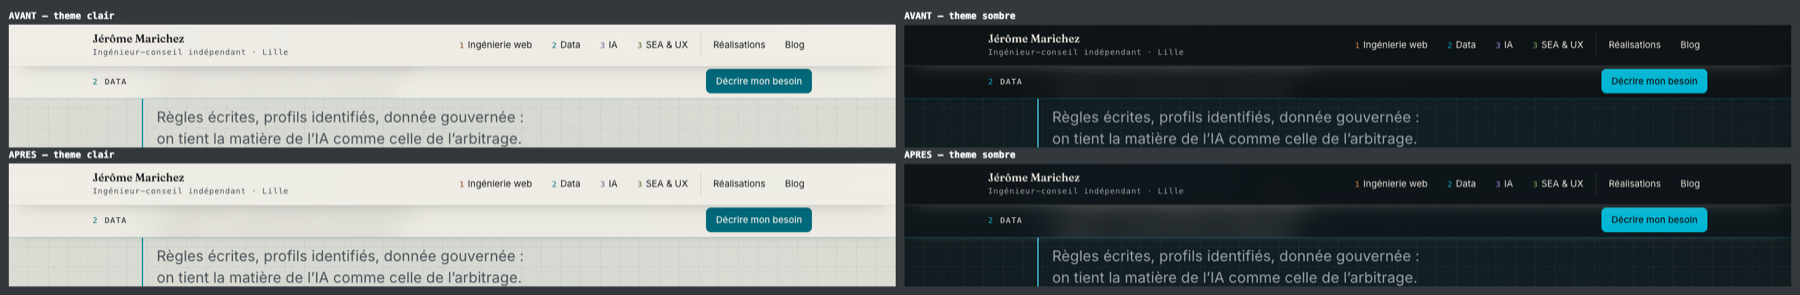
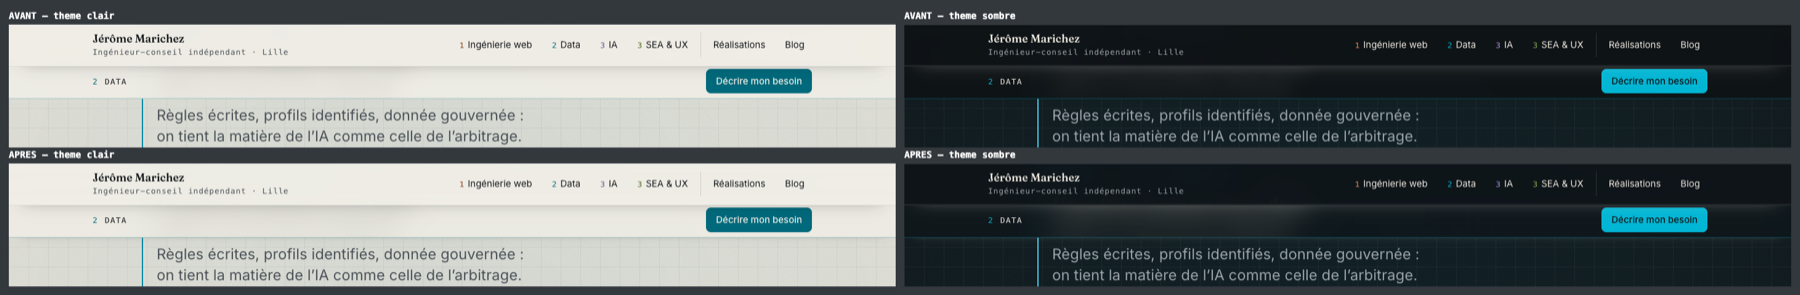
docs(verre): le releve de contraste rejoue apres l'integration de dev
Le lavis de `ChainDiagram`, les nouvelles sections de pole et les articles
ajoutes changent ce qui defile sous les bandes : la mesure ne valait plus
telle quelle. Rejouee dans les memes conditions, les quatre valeurs sont
inchangees au centieme pres, et seule la position du pire cas de la barre
a suivi l'allongement de la page de pole (3288 -> 4440px). Le contraste y
passe de 4.59 a 4.60:1.

Les planches avant/apres sont regenerees sur l'arbre fusionne, a cette
nouvelle position.

Refs #115

diff --git a/docs/design.md b/docs/design.md
@@ -1222,7 +1222,7 @@ quatre chiffres de temps de l'en-tête, et celui de la barre de pôle.
 |---|---|---|---|---|---|
 | en-tête | clair | **85 %** | `--pole-data` `#00697b`, 13px | `rgb(169,84,41)` | accueil, 528px |
 | en-tête | sombre | **71 %** | `--pole-ia` `#af8fe8`, 13px | `rgb(221,124,51)` | accueil, 528px |
-| barre de pôle | clair | **74 %** | `--pole-data` `#00697b`, 13px | `rgb(154,157,152)` | `/services/data/`, 3288px |
+| barre de pôle | clair | **74 %** | `--pole-data` `#00697b`, 13px | `rgb(155,158,152)` | `/services/data/`, 4440px |
 | barre de pôle | sombre | **53 %** | `--pole-data` `#01b6d4`, 13px | `rgb(91,113,116)` | `/services/data/`, 960px |
 
 Les valeurs retenues sont posées **au-dessus** de ces planchers, d'un à cinq points selon
@@ -1236,12 +1236,17 @@ c'est le tableau qui compte, les planchers ci-dessus ne servaient qu'à les choi
 |---|---|---|---|---|---|
 | en-tête | clair | 86 % | **4.61:1** | 4.5:1 | +0.11 |
 | en-tête | sombre | 73 % | **4.75:1** | 4.5:1 | +0.25 |
-| barre de pôle | clair | 76 % | **4.59:1** | 4.5:1 | +0.09 |
+| barre de pôle | clair | 76 % | **4.60:1** | 4.5:1 | +0.10 |
 | barre de pôle | sombre | 58 % | **4.85:1** | 4.5:1 | +0.35 |
 
 Dans les quatre cas, le texte qui fixe la marge est `--accent` à 13px. Le reste de ce que
 portent les bandes est très au-dessus : `--encre` à 15 et 18px vaut 10.2 à 13.1:1, et
 `--encre-douce` à 13px vaut 4.93 à 5.86:1.
+
+Le relevé a été **rejoué après l'intégration de `dev`** — le lavis de `ChainDiagram`, les
+nouvelles sections de pôle et les articles ajoutés changent ce qui défile sous les bandes.
+Les quatre valeurs sont inchangées au centième près ; seule la position du pire cas de la
+barre a suivi l'allongement de la page de pôle (3288 → 4440px).
 
 Ces marges sont **minces, et c'est leur nature** : un plancher mesuré est par définition
 une valeur qu'on approche. Elles sont du même ordre que celle du lavis de pôle (0,02 point

diff --git a/docs/accessibility.md b/docs/accessibility.md
@@ -200,7 +200,7 @@ défilement. Méthode complète et pièges de mesure dans [`design.md`](./design
 |---|---|---|---|---|
 | en-tête du site | clair | **4.61:1** | 4.5:1 | `--pole-data` à 13px, sur l'aplat du bouton du seuil |
 | en-tête du site | sombre | **4.75:1** | 4.5:1 | `--pole-ia` à 13px, même aplat |
-| barre de pôle | clair | **4.59:1** | 4.5:1 | `--pole-data` à 13px, sur le lavis le plus dense |
+| barre de pôle | clair | **4.60:1** | 4.5:1 | `--pole-data` à 13px, sur le lavis le plus dense |
 | barre de pôle | sombre | **4.85:1** | 4.5:1 | `--pole-data` à 13px |
 
 Le reste de ce que portent les bandes est très au-dessus du seuil : `--encre` à 15 et 18px
@@ -237,6 +237,6 @@ non protégé. La liste vit dans `scripts/budgets/pages.mjs`.
 | Contrastes sur le lavis de feuille (`ChainDiagram`) | mesure au pixel, deux thèmes | **tenu** — 2026-08-23, pire cas 4,82:1 (texte) et 3,09:1 (non-texte) |
 | Non-composition des lavis dans `ChainDiagram` | témoins rendus + mesure au pixel | **prouvée** — 2026-08-23, écart nul avec le cas « un seul lavis » |
 | Étiquettes de pôle (`PoleTagList`) | mesure au pixel, deux thèmes | **corrigé** — 2026-08-23, deux valeurs étaient sous le seuil |
-| Contrastes sur les bandes de verre | mesure au pixel, page balayée, deux thèmes | **tenu** — 2026-08-24, marges de 0,09 à 0,35 point |
+| Contrastes sur les bandes de verre | mesure au pixel, page balayée, deux thèmes | **tenu** — 2026-08-24, rejoué après intégration de `dev`, marges de 0,10 à 0,35 point |
 | Clavier + lecteur d'écran | manuel | _à réaliser_ |
 | WCAG 2.2.2 — pause des animations | manuel | _à réaliser_ |

diff --git a/docs/captures/README.md b/docs/captures/README.md
@@ -29,7 +29,7 @@ Deux pièges, rencontrés et corrigés dans le script :
 
 | Fichier | Ce qu'elle montre | Issue |
 |---|---|---|
-| `115-verre-bandes.png` | l'en-tête et la barre de pôle empilés, à la position où la mesure a trouvé le pire fond sous la barre — `/services/data/`, 3288px | #115 |
+| `115-verre-bandes.png` | l'en-tête et la barre de pôle empilés, à la position où la mesure a trouvé le pire fond sous la barre — `/services/data/`, 4440px | #115 |
 | `115-verre-entete.png` | l'en-tête seul, à la position du pire cas en thème clair : l'aplat d'accent du bouton du seuil passe dessous — accueil, 528px | #115 |
 | `115-verre-actions.png` | les deux actions du seuil : l'action principale reste un aplat, l'action secondaire devient une pastille de verre | #115 |
 | `115-verre-contact.png` | le bloc de contact, qui passe d'un voile sans flou à un vrai panneau de verre | #115 |
